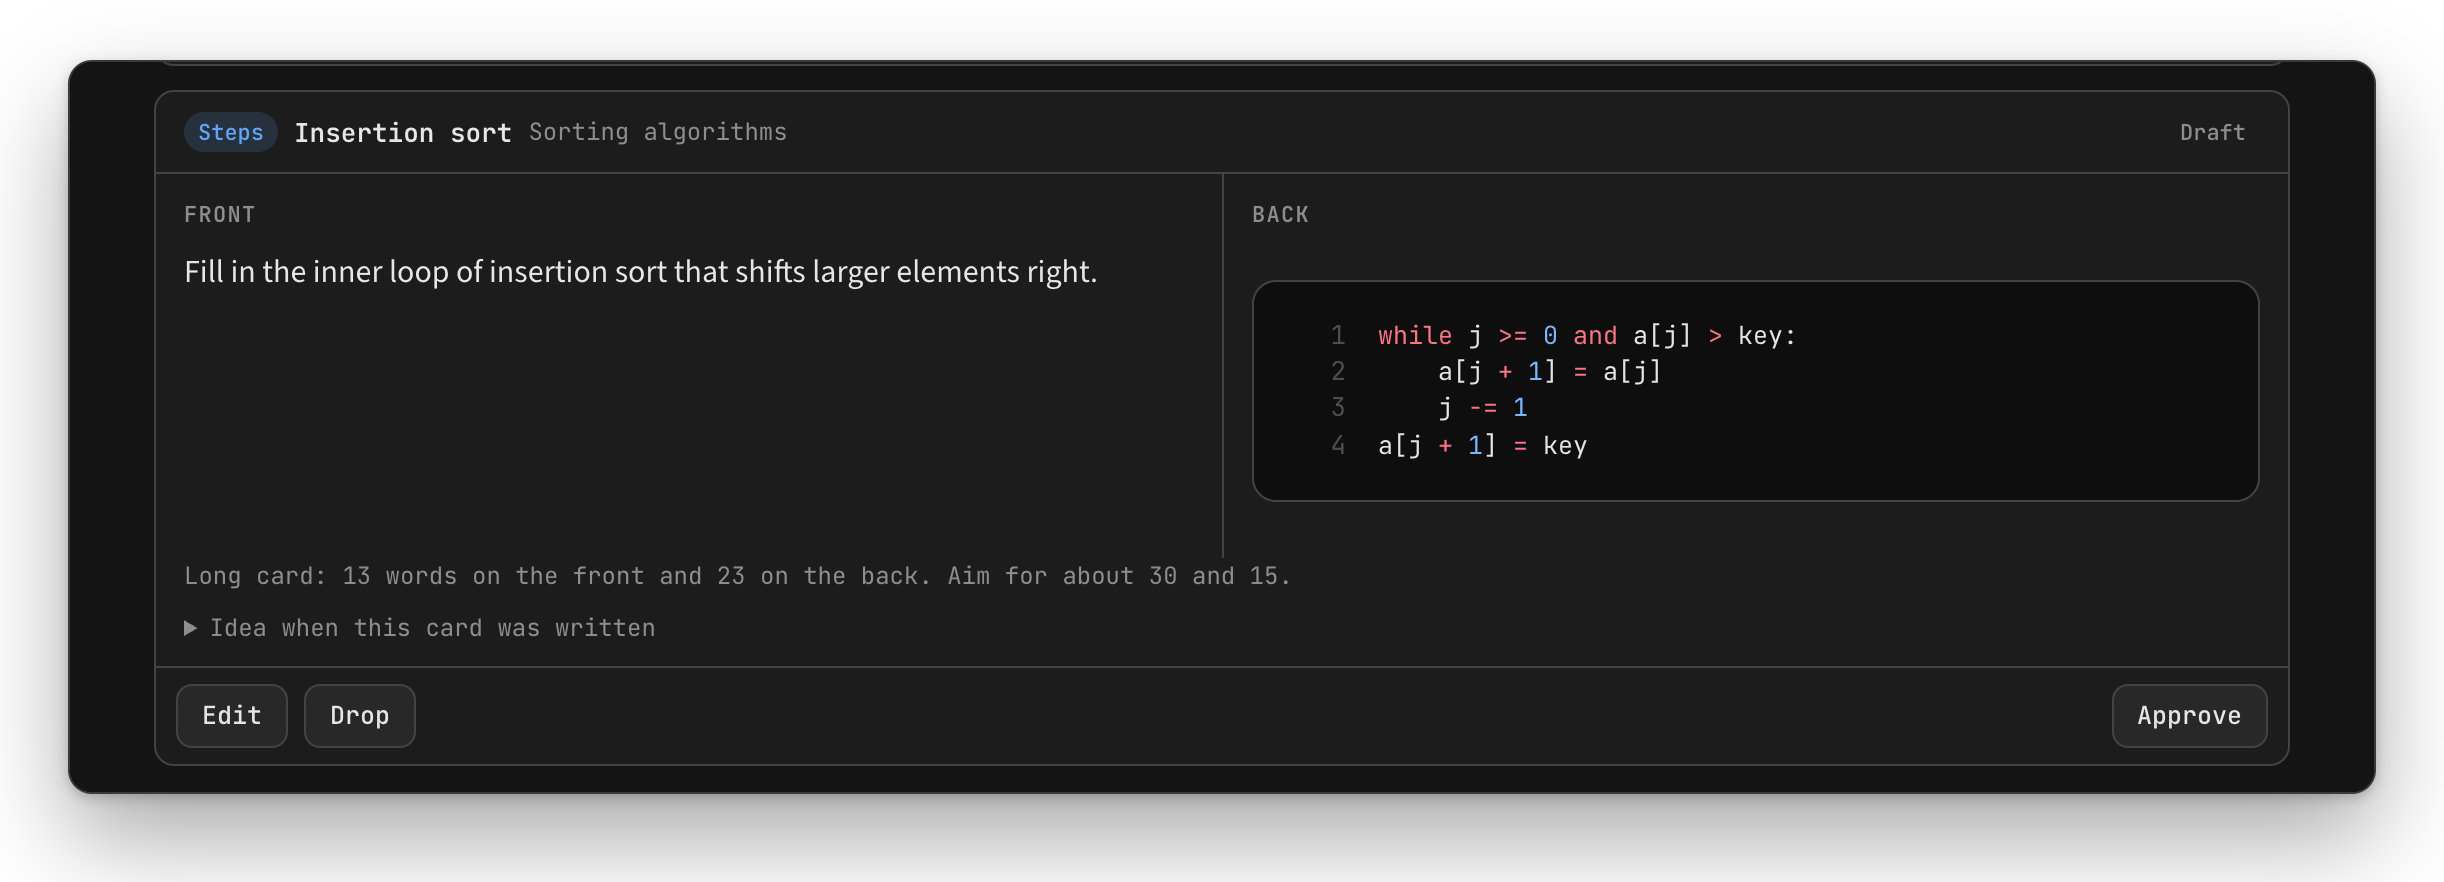
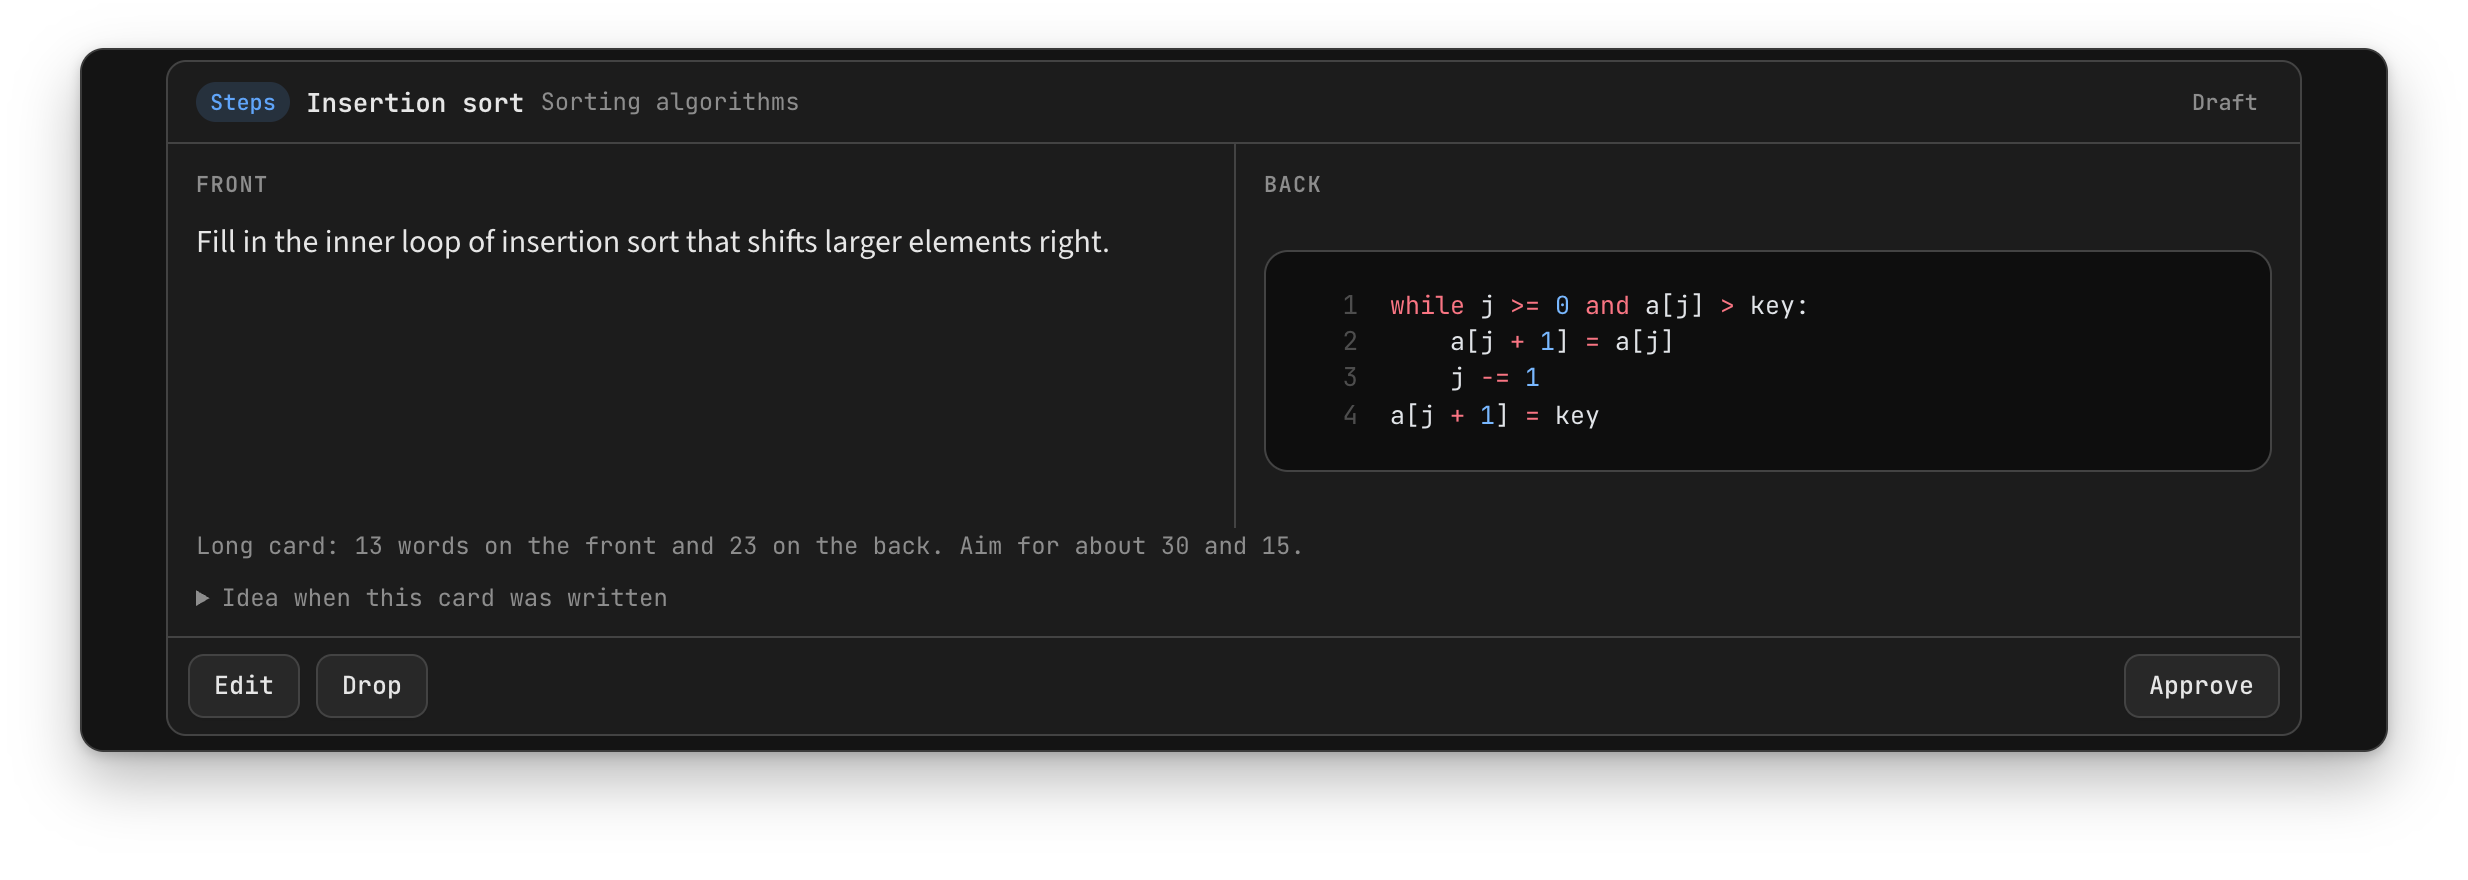
Tighten screenshot crops and frame shadows; match the flag note across images

Changed region(s): [[0.0, 0.0307, 0.9951, 0.9818], [0.5597, 0.3375, 0.7463, 0.5216], [0.4975, 0.1841, 0.5286, 0.2455]]

diff --git a/docs/images/readme/src/frame.html b/docs/images/readme/src/frame.html
@@ -1,8 +1,8 @@
 <!doctype html>
 <html><head><meta charset="utf-8"><link rel="stylesheet" href="common.css">
 <style>
-#art { background: transparent; padding: 30px 34px 44px; }
-.win { position: relative; border-radius: 12px; overflow: hidden; border: 1px solid #3a3a3a; background: #161616; box-shadow: 0 22px 48px rgba(0,0,0,.34), 0 2px 6px rgba(0,0,0,.2); }
+#art { background: transparent; padding: 24px 40px 64px; }
+.win { position: relative; border-radius: 12px; overflow: hidden; border: 1px solid #3a3a3a; background: #161616; box-shadow: 0 14px 30px rgba(0,0,0,.28), 0 2px 6px rgba(0,0,0,.18); }
 .bar { height: 34px; background: #1b1b1b; border-bottom: 1px solid #2a2a2a; display: flex; align-items: center; padding-left: 14px; gap: 8px; }
 .bar i { width: 12px; height: 12px; border-radius: 50%; display: block; }
 .view { position: relative; overflow: hidden; }
